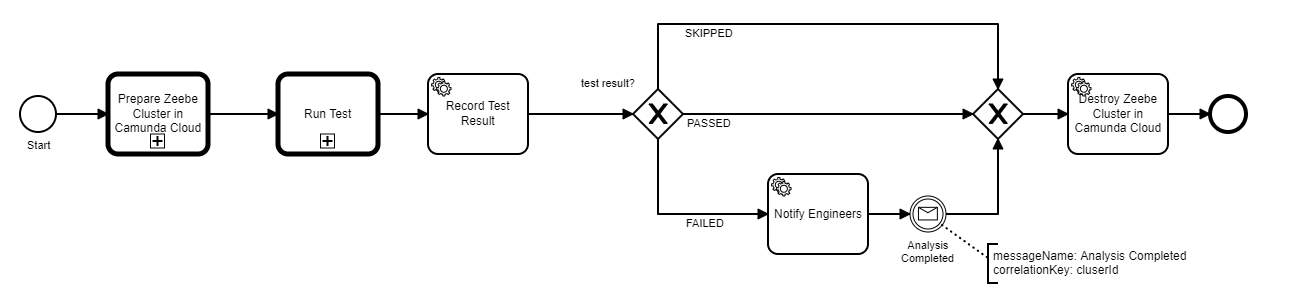
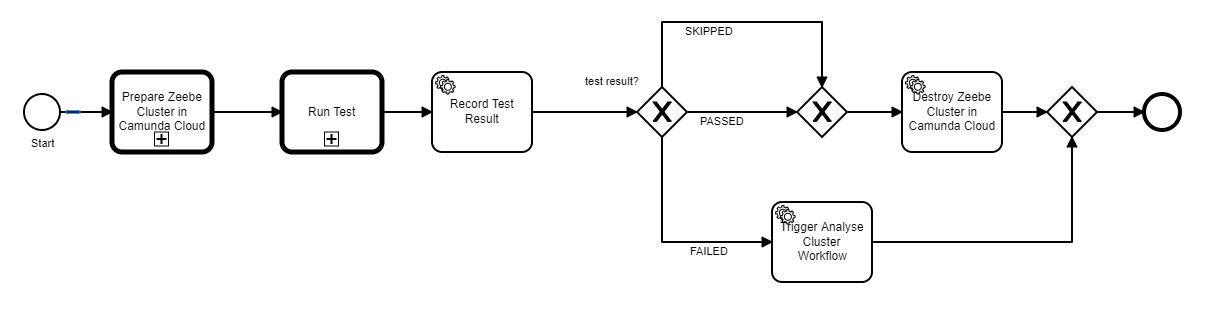
feat(workflows): move analysis of cluster into dedicated workflow

diff --git a/README.md b/README.md
@@ -179,7 +179,8 @@ This workflow runs a test based on the given `testId` in a fresh cluster in Camu
 
 **Notes**
 
-- The _Notify Engineers_ step is a workaround until we have user tasks
+The step _Trigger Analyse Cluster Workflow_ starts a second workflow which keeps the cluster alive for further analysis. The cluster will be deleted after analysis.
+This way, the test process can terminate and report the test result, while the analysis is happening asynchronously.
 
 **Workflow ID:** `run-test-in-camunda-cloud`
 
@@ -291,6 +292,23 @@ The expectation is that the external tool will register a worker for the job typ
 | `businessKey`               | Business key. This will be used as job type to fetch the result           | `String` |
 | _variables for the process_ | additional variables that will be forwarded to the process that is called |          |
 
+##### Analyse Cluster
+
+This process is usually called after a failure occurred. It notifies an engineer and keeps the cluster alive until analysis has completed
+
+![analyse-cluster](docs/assets/analyse-cluster.png)
+
+**Workflow ID:** `analyse-cluster`
+
+| Inputs        | Description                                  | Type         |
+| ------------- | -------------------------------------------- | ------------ |
+| `generation`  | name of the generation for the cluster       | `String`     |
+| `clusterPlan` | name of the cluster plan for the cluster     | `String`     |
+| `clusterId`   | ID of the cluster in which Zeebe is tested   | `String`     |
+| `clusterName` | Name of the cluster in which Zeebe is tested | `String`     |
+| `operateURL`  | URL to Operate web interface                 | `String`     |
+| `testReport`  | test report                                  | `TestReport` |
+
 ##### Clean Up Generation
 
 Generations cannot be deleted immediately after a test protocol has completed. Some of the tests might have failed. In this case the clusters are kept alive for further analysis.
@@ -309,8 +327,9 @@ This workflow peridically checks how many clusters are still using a generation.
 
 These messages are important to control aspects of the test control flow:
 
-| Message             | Message Name          | Correlation Key | Payload          |
-| ------------------- | --------------------- | --------------- | ---------------- |
-| Analysis Completed  | `Analysis Completed`  | `clusterId`     | n/a              |
-| Clean up Generation | `Clean Up Generation` | n/a             | `generationUUID` |
-| Stop Daily Test     | `Stop Daily Test`     | `id`            | n/a              |
+| Message             | Message Name          | Correlation Key | Payload                                                                             |
+| ------------------- | --------------------- | --------------- | ----------------------------------------------------------------------------------- |
+| Analyse Cluster     | `Analyse Cluster`     | n/a             | `generation`, `clusterPlan`, `clusterId`, `clusterName`, `operateURL`, `testReport` |
+| Analysis Completed  | `Analysis Completed`  | `clusterId`     | n/a                                                                                 |
+| Clean up Generation | `Clean Up Generation` | n/a             | `generationUUID`                                                                    |
+| Stop Daily Test     | `Stop Daily Test`     | `id`            | n/a                                                                                 |
